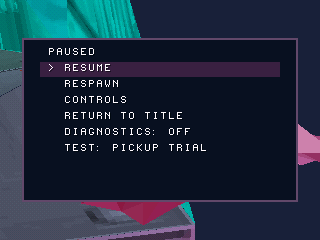
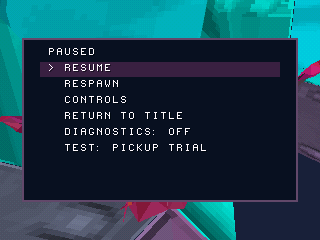
Add verified native WIP09 wall-camera screenshots

Changed region(s): [[0.1562, 0.0, 1.0, 0.7], [0.125, 0.8167, 0.75, 1.0], [0.0, 0.0, 0.125, 0.7]]

diff --git a/docs/NATIVE_COMPARISON.md b/docs/NATIVE_COMPARISON.md
@@ -1,6 +1,6 @@
 # Confronto nativo WIP08 / sorgente WIP09
 
-Sorgente compilato: `6bac3839b7f349a2cb96cffe7f654595b52ac8f0`. Catture reali PCSX-ReARMed, HLE BIOS,
+Sorgente compilato: `85ee3b8033939136720c5d8eb793bfebf5c0423f`. Catture reali PCSX-ReARMed, HLE BIOS,
 interprete CPU e GPU software. Stesso percorso e stessi istanti di cattura.
 Questo confronto verifica un caso della telecamera; non aggiunge livelli al gioco.
 
@@ -17,20 +17,12 @@ Il build e tutte le catture sono scaricabili dagli artifact della relativa esecu
 **Native PS1 preview** in GitHub Actions. Il vecchio disco in `disc/` resta WIP08.
 Il pacchetto WIP09 source mantiene il suo stato esplicito: non sostituisce quel disco.
 
-## Risultato osservato, non solo confronto visivo
+## Camera da fermo: prima e dopo la ricerca laterale
 
-| Dato registrato al frame 1300 | WIP08 | WIP09 |
-| --- | ---: | ---: |
-| X del personaggio, fixed point | 145152 | 145152 |
-| Y del personaggio, fixed point | -9728 | -9728 |
-| Z del personaggio, fixed point | 197888 | 197888 |
-| Distanza camera | 420 | 152 |
+Catture dello stesso scenario al frame 1410; i metadati dei due build sono conservati nelle rispettive cartelle.
 
-La posizione del personaggio è identica. Il minimo della camera nell'intera
-cattura passa da 420 a 151 unità. La camera rispetta l'ostacolo più vicino,
-ma il primo piano del personaggio riduce la leggibilità: questa resta una
-limitazione aperta, non una promessa di miglioramento visivo in ogni scena.
+| WIP09 prima della ricerca laterale | WIP09 con ricerca laterale |
+| --- | --- |
+| ![Prima](screenshots/wip09-before-orbit/frame_1410.png) | ![Dopo](screenshots/wip09/frame_1410.png) |
 
-Compilazione e cattura: [esecuzione riuscita con build e screenshot](https://github.com/Dynamon91/Zera-PS1-project/actions/runs/40649620714).
-I prossimi controlli sono selezione di un'inquadratura alternativa, leggibilità
-vicino al personaggio e ripetizione degli altri scenari sul nuovo build.
+La ricerca si attiva solo da fermo, con pausa e controlli manuali prioritari. Non garantisce una vista libera in ogni angolo.
